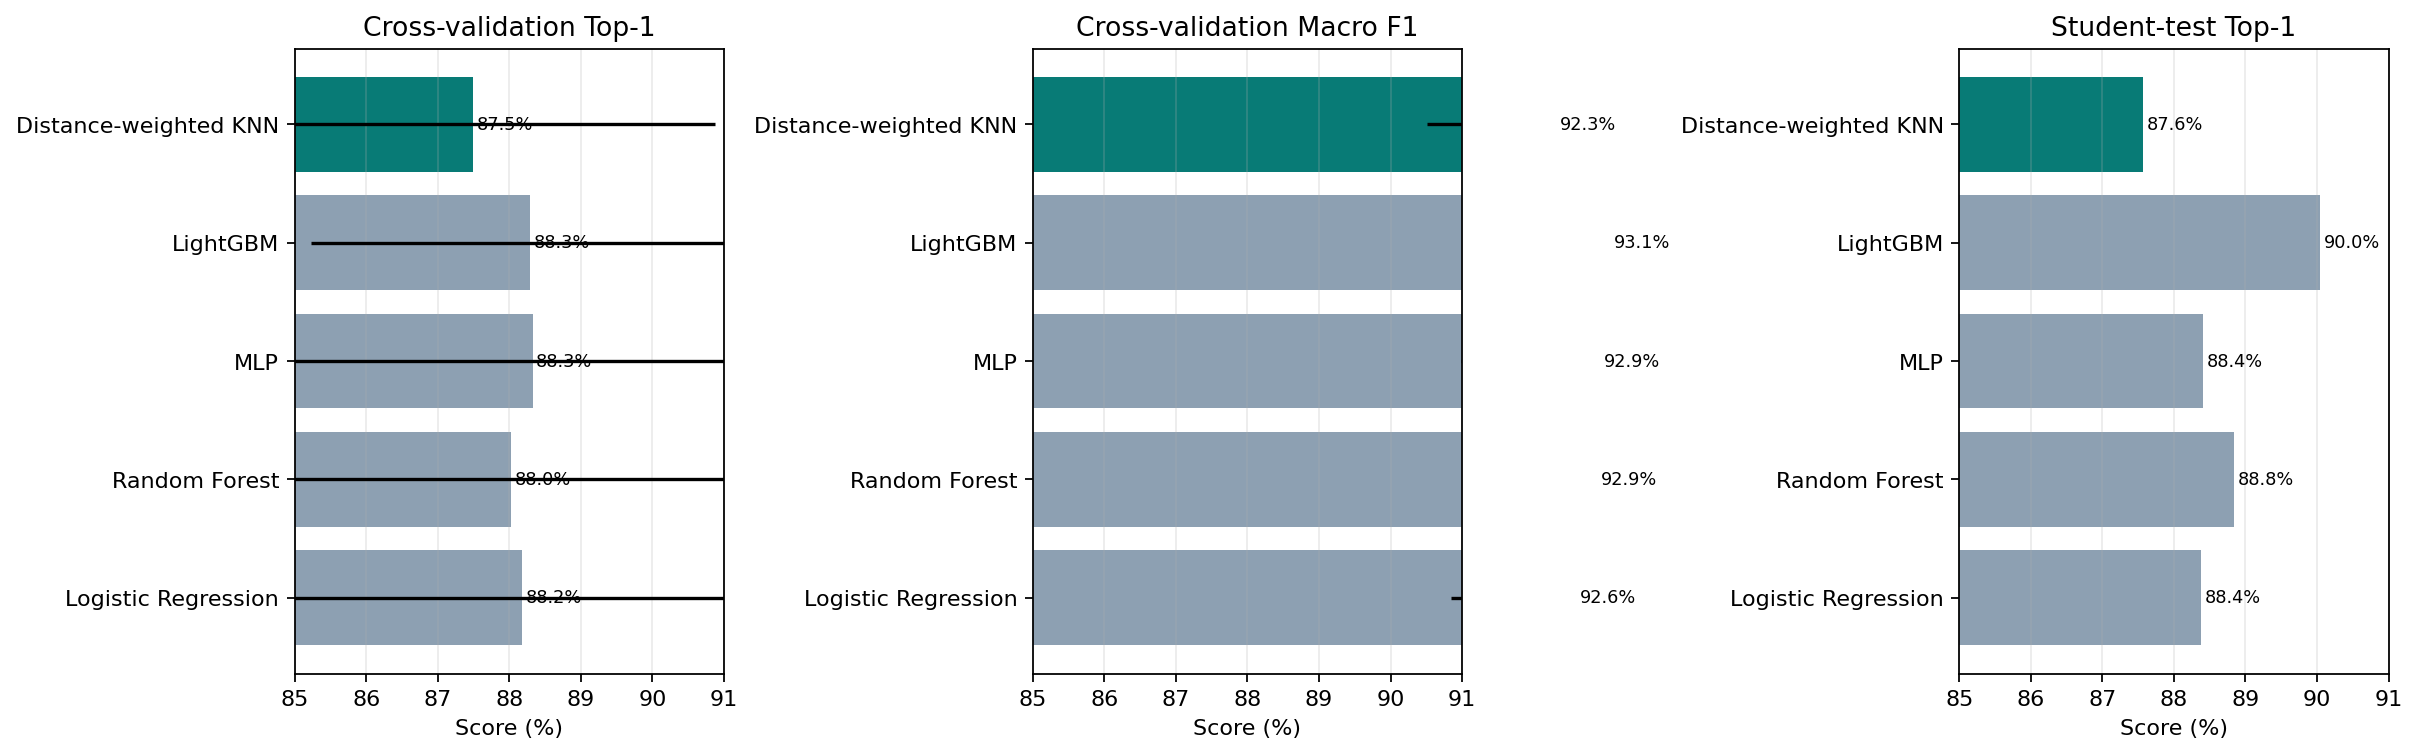
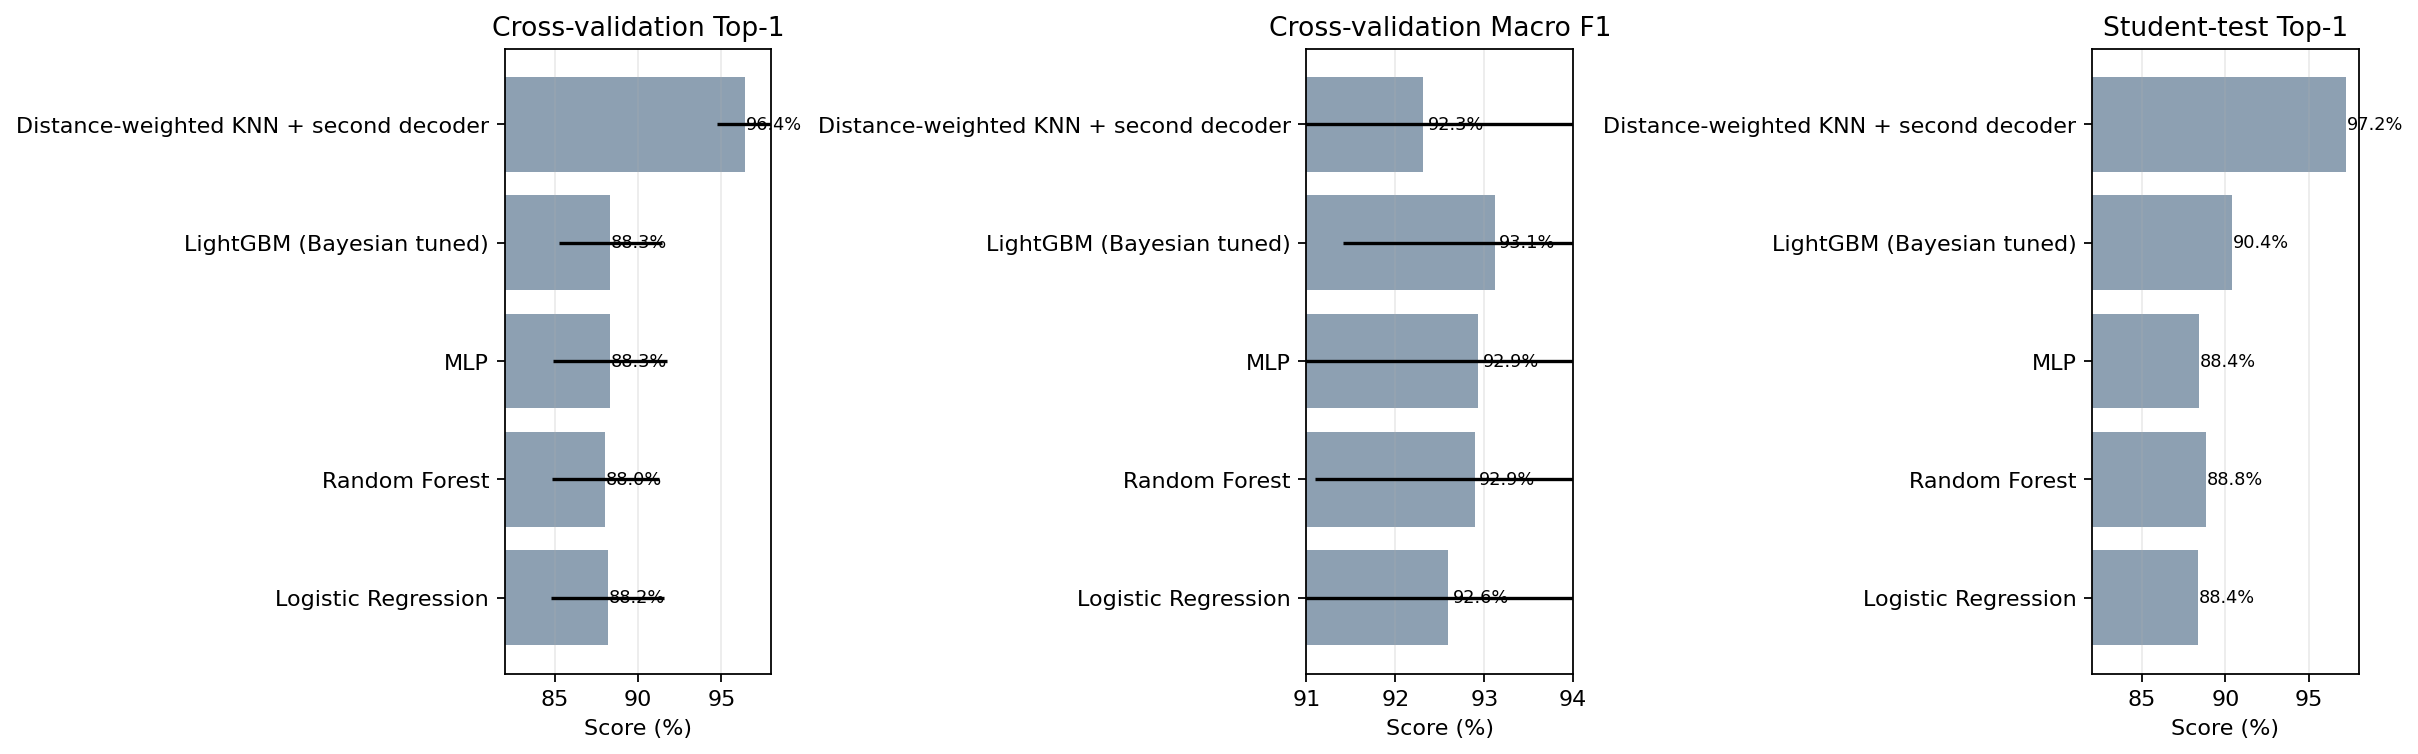
Correct KNN model comparison metrics
Use the second route decoder's 96.44% CV and 97.22% student-test results, and the tuned LightGBM metrics for the cross-model comparison.\n\nCo-authored-by: Copilot <223556219+Copilot@users.noreply.github.com>

diff --git a/models/distance_weighted_knn/visualizations/generate_visualizations.py b/models/distance_weighted_knn/visualizations/generate_visualizations.py
@@ -35,7 +35,10 @@ def model_comparison():
         ax.barh(y, values * 100, xerr=(err.values * 100 if err is not None else None),
                 color=["#087b76" if m == "Distance-weighted KNN" else "#8da0b2" for m in df.model])
         ax.set_yticks(y, df.model)
-        ax.set_xlim(85, 91)
+        ax.set_xlim(
+            82 if mean_col == "cv_top1_mean" or mean_col == "student_top1" else 91,
+            98 if mean_col == "cv_top1_mean" or mean_col == "student_top1" else 94,
+        )
         ax.set_xlabel("Score (%)")
         ax.set_title(title)
         ax.grid(axis="x", alpha=.25)

diff --git a/models/distance_weighted_knn/visualizations/README.md b/models/distance_weighted_knn/visualizations/README.md
@@ -4,13 +4,13 @@ This folder contains charts generated only from recorded experimental results. I
 
 ## Outputs
 
-- `model_comparison_cv_student.png` - cross-validation and student-test model comparisons
+- `model_comparison_cv_student.png` - cross-validation and student-test model comparisons. The KNN entry uses the selected second-decoder result: 96.44% mean cross-validation accuracy and 97.22% student-test accuracy.
 - `macro_f1_and_log_loss.png` - macro F1 and log-loss comparisons
 - `knn_confusion_matrix.png` - candidate-class confusion matrix for the student-test split
 - `decoder_accuracy_comparison.png` - pointwise KNN and both decoder iterations across folds and trips
 - `decoder_trial_search.png` - measured configuration-search performance
 - `trip_00000052.html` - interactive candidate, reference, and KNN route map
-- `model_comparison.csv` - cross-model metrics used by the summary charts
+- `model_comparison.csv` - best recorded cross-model metrics used by the summary charts. KNN Macro F1 and log loss remain the pointwise candidate-classification metrics because route decoding changes the selected arc sequence rather than candidate probabilities.
 
 Regenerate the static plots and refresh the map copy:
 
